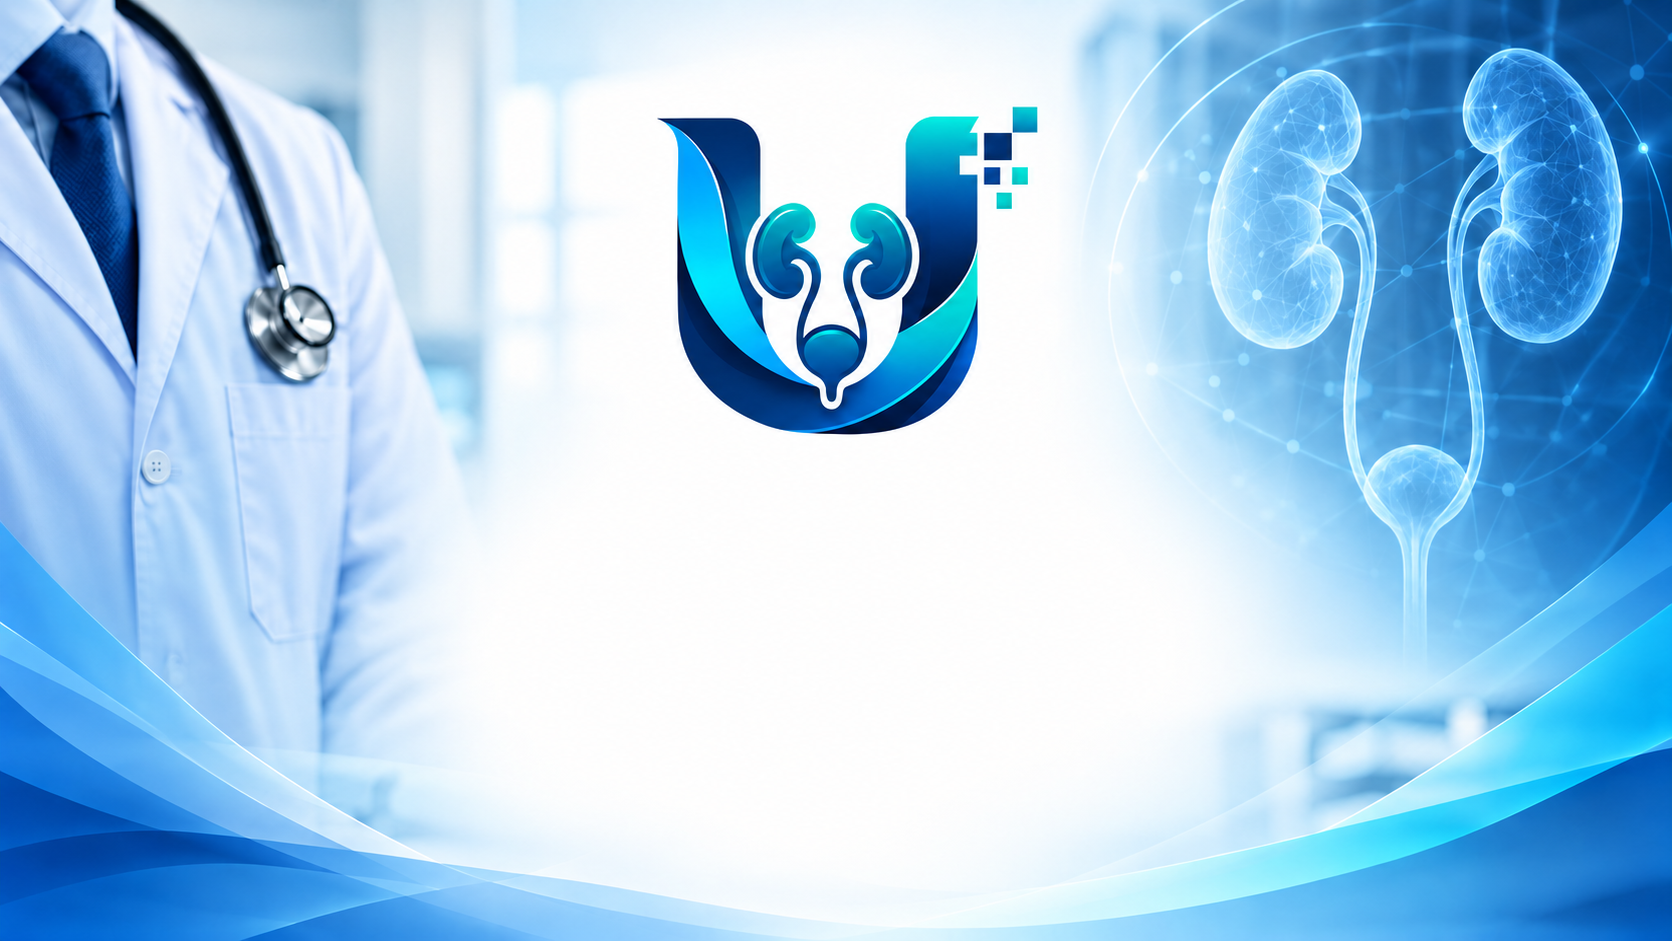
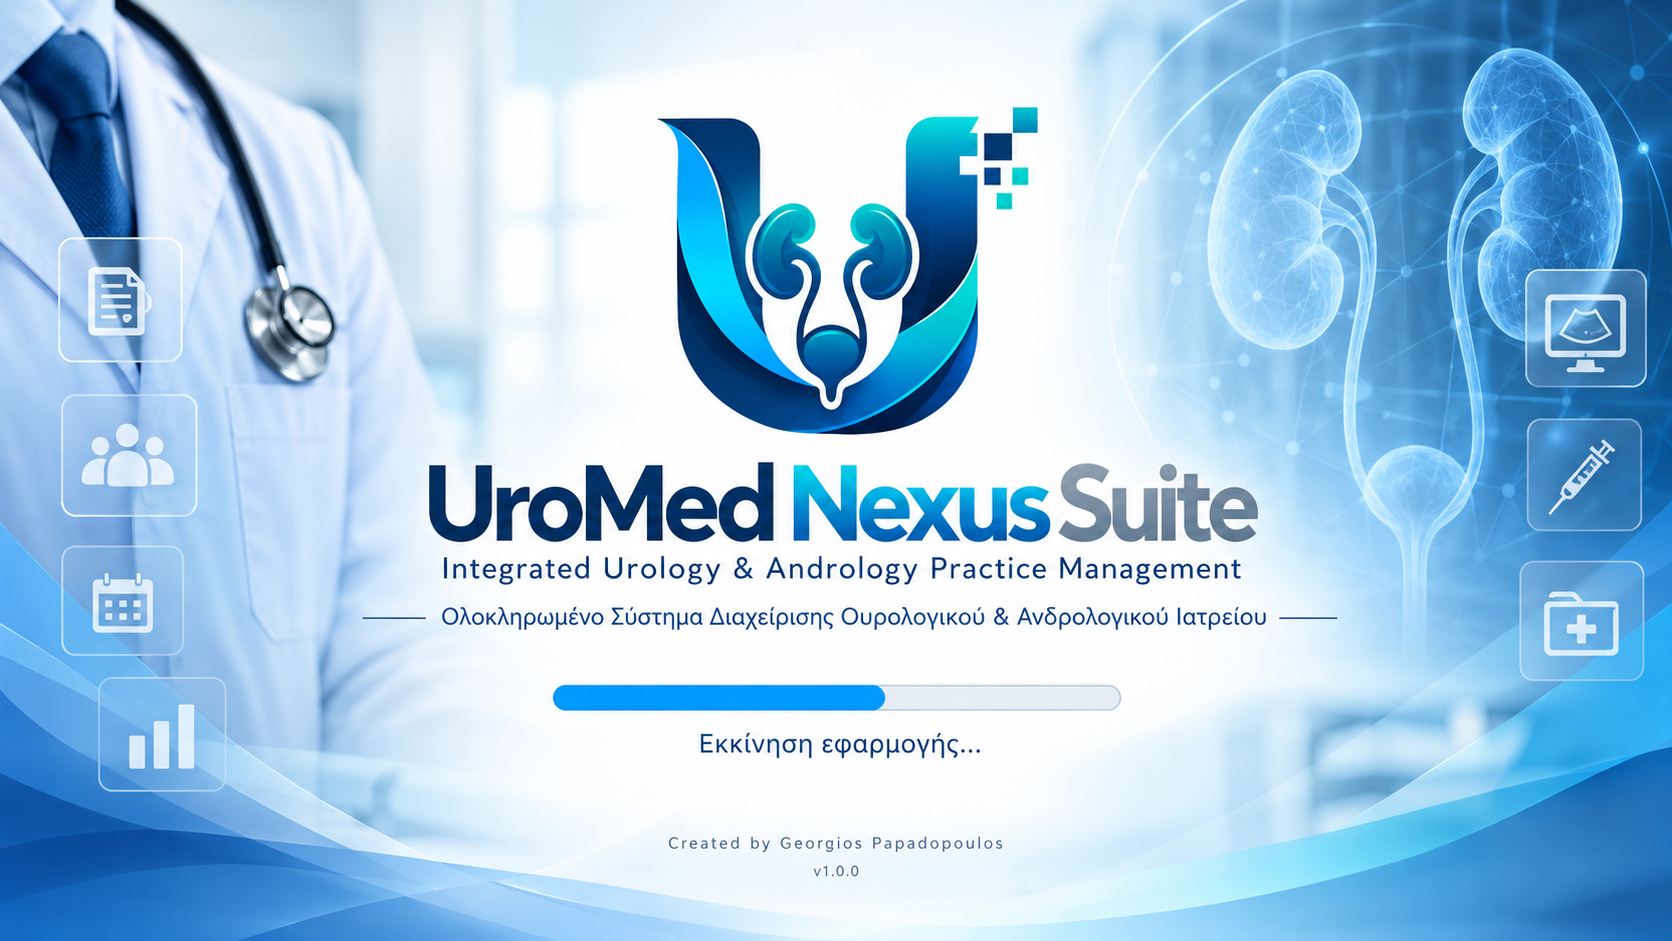
Use original supplied PNG unchanged on welcome screen

diff --git a/app.js b/app.js
@@ -46,7 +46,7 @@ function commit(next) {
 }
 function update(fn){const next=JSON.parse(JSON.stringify(state));fn(next);commit(next);}
 function optionsActions(){return `<details><summary>Περισσότερες ενέργειες</summary><div class="row">${button('BACKUP · Εξαγωγή','backup')}${button('Επαναφορά αντιγράφου','restore','','secondary')}</div><input type="file" id="backupFile" accept=".json,application/json" class="hidden"></details>`;}
-function welcome(){return `<main class="welcome hero" aria-label="Καλώς ήρθατε στο UroMed Nexus Suite"><div class="welcome-content"><h1 class="welcome-brand"><span>UroMed</span> <span>Nexus</span> <span>Suite</span></h1><p class="welcome-english" lang="en">Integrated Urology & Andrology Practice Management</p><p class="welcome-greek">Ολοκληρωμένο Σύστημα Διαχείρισης<br class="welcome-mobile-break"> Ουρολογικού & Ανδρολογικού Ιατρείου</p><div class="welcome-actions">${button('Συνέχεια στην είσοδο →','login','','welcome-enter')}${button('Παρουσίαση εφαρμογής','landing','','welcome-more')}</div><p class="welcome-demo">Δοκιμαστική έκδοση · μόνο φανταστικά δεδομένα</p></div><footer class="welcome-footer"><span lang="en">Created by Georgios Papadopoulos</span><br>${version}</footer></main>`;}
+function welcome(){return `<main class="welcome hero" aria-label="Υποδοχή UroMed Nexus Suite"><button type="button" class="welcome-image-button" data-action="login" aria-label="Συνέχεια στην είσοδο του UroMed Nexus Suite"><img src="welcome-bg.png?v=original-20261108" width="1672" height="941" fetchpriority="high" alt="UroMed Nexus Suite · Integrated Urology and Andrology Practice Management · Ολοκληρωμένο Σύστημα Διαχείρισης Ουρολογικού και Ανδρολογικού Ιατρείου. Αρχικό γραφικό υποδοχής με γιατρό, λογότυπο, νεφρούς και πλαϊνά εικονίδια."></button><div class="welcome-navigation">${button('Συνέχεια στην είσοδο →','login','','welcome-enter')}${button('Παρουσίαση','landing','','welcome-more')}</div><p class="welcome-version">${version} · Πατήστε την εικόνα ή το κουμπί για είσοδο.</p></main>`;}
 function landing(){return `<header class="row between">${brand()}<div class="row">${themeControl()}<span class="pill">${version}</span></div></header><main class="landing"><div class="hero"><div><div class="eyebrow">Clinical Testing Edition / 2026</div><h1>Το ιατρείο σας.<br>Σε μία <span>ενιαία ροή.</span></h1><p class="lead">Από το πρώτο ραντεβού μέχρι τον επανέλεγχο. Ένα σύγχρονο εκπαιδευτικό περιβάλλον για την οργάνωση ουρολογικού και ανδρολογικού ιατρείου.</p><div class="row">${button('Είσοδος στη δοκιμαστική έκδοση →','login')}${button('Γνωρίστε τη ροή','flow','','secondary')}</div><p class="muted">Χωρίς υποχρεωτική αναμονή. Με φανταστικά δεδομένα και τοπική αποθήκευση.</p></div><div class="hero-visual"><div class="row between"><strong>Η ημέρα σας, οργανωμένη</strong><span class="pill">DEMO</span></div><div class="line"><span class="dot"></span><div><small>01 / ΑΣΘΕΝΗΣ</small><p>Βρείτε την πληροφορία που χρειάζεστε.</p></div></div><div class="line"><span class="dot"></span><div><small>02 / ΕΠΙΣΚΕΨΗ</small><p>Καταγράψτε. Ελέγξτε. Αποθηκεύστε.</p></div></div><div class="line"><span class="dot"></span><div><small>03 / ΣΥΝΕΧΕΙΑ</small><p>Επανέλεγχος και αναφορά, στην ίδια ροή.</p></div></div></div></div><div id="flow" class="grid">${[['01','Ασθενείς & ιστορικό','Φανταστικοί φάκελοι με διακριτές επισκέψεις.'],['02','Δύο χώροι εργασίας','Ραντεβού, διάρκεια και έλεγχος επικαλύψεων.'],['03','SAVE · PRINT · BACKUP','Προσχέδια, προεπισκόπηση και εξαγωγή δεδομένων.']].map(([n,t,d])=>`<article class="card"><div class="step-number">${n}</div><h2>${t}</h2><p class="muted">${d}</p></article>`).join('')}</div>${notice()}<p class="muted">Η AI, η τηλεϊατρική και ο συγχρονισμός αποτελούν μελλοντικές ενότητες. Η έκδοση αυτή δεν προορίζεται για πραγματική ιατρική χρήση.</p></main>${footer()}`;}
 function login(){return `<header class="row between">${brand()}<div class="row">${themeControl()}${button('← Υποδοχή','welcome','','secondary')}</div></header><main class="auth-wrap"><div><div class="eyebrow">Ο προσωπικός σας χώρος</div><h1>Καλώς ήρθατε<br>στο Nexus Suite.</h1><p class="muted">Επιλέξτε μέθοδο εισόδου και τον δικό σας δοκιμαστικό λογαριασμό.</p>${notice()}<details><summary>Δοκιμαστικοί λογαριασμοί και Password</summary><div class="credentials">${ACCOUNTS.map(a=>`<p><b>${a.label}</b><br>User name: <code>${a.username}</code><br>Password: <code>${a.demoPassword}</code></p>`).join('')}<p>Μην χρησιμοποιείτε προσωπικό σας κωδικό. Το PIN ορίζεται μετά την πρώτη είσοδο, ξεχωριστά για κάθε λογαριασμό και browser.</p></div></details></div><section class="card auth-card"><h2>Σύνδεση χρήστη</h2><div class="tabs" aria-label="Μέθοδος εισόδου">${[['password','Password'],['pin','PIN'],['biometric','Δακτυλικό / Face ID']].map(([m,l])=>button(l,'method',m,method===m?'active':'')).join('')}</div><form id="loginForm">${field('User name · doctor / reception / ADMIN','username','','text','autocomplete="username" required maxlength="50"')}${method==='password'?`<label>Password<div class="password-wrap"><input id="loginSecret" type="password" autocomplete="current-password" required>${button('Εμφάνιση','reveal','','secondary')}</div></label>`:method==='pin'?field('Τοπικό δοκιμαστικό PIN · 6 ψηφία','loginSecret','','password','inputmode="numeric" pattern="[0-9]{6}" maxlength="6" autocomplete="off" required'):'<p class="muted">Χρησιμοποιεί τον μηχανισμό της συσκευής (δακτυλικό, Face ID ή Windows Hello). Απαιτείται προηγούμενη καταχώριση στις Ρυθμίσεις και συμβατότητα browser/συσκευής. Δεν είναι διαθέσιμο σε κάθε συσκευή.</p>'}<div id="formError" role="alert"></div><button type="submit" id="loginSubmit">${method==='biometric'?'Βιομετρική είσοδος':'Είσοδος'} →</button></form><p class="field-hint">Η τοπική δοκιμαστική είσοδος δεν αντικαθιστά πραγματικό σύστημα ταυτοποίησης. Δεν αποθηκεύονται εικόνες προσώπου ή δακτυλικών αποτυπωμάτων.</p></section></main>${footer()}`;}
 const titles={clinical:'Ιατρικός φάκελος · Ουρολογία–Ανδρολογία',examinations:'Εξετάσεις & έγγραφα',home:'Ο χώρος εργασίας σας',patients:'Εικονικοί ασθενείς',record:'Ιστορικό ασθενούς',visit:'Ιατρική επίσκεψη',calendar:'Ραντεβού & επανέλεγχοι',report:'Προεπισκόπηση αναφοράς',settings:'Ρυθμίσεις πρόσβασης',admin:'Administration',visitStart:'Επιλογή ασθενή για επίσκεψη',statistics:'Ιστορικό & Στατιστικά',feedback:'Παρατηρήσεις δοκιμής',program:'Εκτύπωση προγράμματος'};

diff --git a/styles.css b/styles.css
@@ -26,11 +26,11 @@
 
 .patient-fields label:nth-child(2){grid-column:1/-1}.clinical-alert p,.prewrap{white-space:pre-wrap;overflow-wrap:anywhere}.exam-entry{border-top:1px solid var(--line);padding:22px 0}.exam-entry li{margin:12px 0}.exam-entry li button{margin:4px}.exam-preview{max-width:100%;height:auto}.patient-fields label:last-child{max-width:210px}
 
-/* Welcome artwork is decorative; all text and controls remain accessible HTML. */
-.welcome.hero{position:relative;display:flex;flex-direction:column;align-items:center;gap:0;min-height:100vh;margin:0;padding:max(48vh,28vw) 24px 20px;max-width:none;background:#e2f4ff url("welcome-bg.png") center top/cover no-repeat;color:#07336a;text-align:center}
-.welcome-content{width:100%;max-width:1100px}.welcome.hero .welcome-brand{font-size:clamp(34px,5.3vw,88px);line-height:1.06;font-weight:800;letter-spacing:-3px;margin:0 0 10px;color:#05366d;text-shadow:0 2px 15px #fff}
-.welcome.hero .welcome-brand span:first-child{color:#04366d}.welcome.hero .welcome-brand span:nth-child(2){color:#00a9ce}.welcome.hero .welcome-brand span:nth-child(3){color:#758b9f}
-.welcome-english{font-size:clamp(14px,1.55vw,24px);letter-spacing:1px;margin:8px 0 12px;line-height:1.4;color:#07336a;text-shadow:0 1px 10px white}.welcome-greek{font-size:clamp(16px,1.5vw,23px);line-height:1.5;margin:12px 0 24px;color:#07336a;text-shadow:0 1px 10px white}
-.welcome-actions{display:flex;justify-content:center;gap:12px;flex-wrap:wrap}.welcome-actions .welcome-enter{background:linear-gradient(120deg,#00b8e0,#0069d9);color:white;border:1px solid #008fe0;box-shadow:0 6px 22px #0075b82b;padding:15px 26px;font-size:18px}.welcome-actions .welcome-more{background:#ffffffd9;color:#074078;border:1px solid #98bfdc;padding:15px 22px}
-.welcome-demo{font-size:13px;color:#244f78;margin:14px 0 10px}.welcome-footer{margin-top:auto;padding:20px 0 0;color:#214b77;font-size:12px;line-height:1.9;letter-spacing:1px}.welcome-mobile-break{display:none}.welcome button:focus-visible{outline:3px solid #053b74;outline-offset:4px}
-@media(max-width:600px){.welcome.hero{padding-left:18px;padding-right:18px}.welcome.hero .welcome-brand{letter-spacing:-1.5px}.welcome-greek{margin-bottom:18px}.welcome-mobile-break{display:initial}.welcome-actions{gap:10px}.welcome-actions button{width:100%;max-width:320px}.welcome-english{letter-spacing:0}.welcome-footer{font-size:11px}}
+/* Display the user's original PNG unchanged, without cropping or text overlays. */
+.welcome.hero{display:flex;flex-direction:column;align-items:center;gap:0;min-height:100vh;width:100%;max-width:none;margin:0;padding:0;background:#e4f5ff;color:#07336a;text-align:center}
+.welcome-image-button{display:flex;align-items:center;justify-content:center;width:100%;height:calc(100vh - 100px);min-height:200px;padding:0;border:0;border-radius:0;background:transparent;overflow:hidden;flex-shrink:0}
+.welcome-image-button img{display:block;width:100%;height:100%;object-fit:contain;object-position:center}
+.welcome-image-button:hover{filter:none;background:transparent}.welcome-image-button:focus-visible{outline:3px solid #0758a3;outline-offset:-4px}
+.welcome-navigation{display:flex;justify-content:center;gap:10px;flex-wrap:wrap;padding:10px 12px 4px}.welcome-navigation button{font-size:15px;padding:12px 16px;min-height:44px}.welcome-navigation .welcome-enter{background:linear-gradient(120deg,#00a9d8,#0069d9);color:#fff;border:1px solid #0087c4}.welcome-navigation .welcome-more{background:white;color:#074078;border:1px solid #98bfdc}
+.welcome-version{font-size:11px;line-height:1.5;color:#254c70;margin:4px 12px 8px}.welcome button:focus-visible{outline-color:#053b74}
+@media(max-width:400px){.welcome-navigation{gap:8px}.welcome-navigation button{font-size:14px;padding:11px 12px}.welcome-version{font-size:10px}}

diff --git a/index.html b/index.html
@@ -5,13 +5,13 @@
 <meta name="viewport" content="width=device-width, initial-scale=1">
 <meta name="theme-color" content="#0a1529">
 <title>UroMed Nexus Suite — v0.3 Hybrid Futuristic</title>
-<link rel="stylesheet" href="styles.css?v=20261108-welcome">
+<link rel="stylesheet" href="styles.css?v=20261108-original">
 </head>
 <body>
 <div id="app"></div>
 <div id="toast" role="status" aria-live="polite"></div>
 <dialog id="help"><h2>Βοήθεια</h2><div id="helpText"></div><button id="closeHelp">Κλείσιμο</button></dialog>
 <noscript>Η εκπαιδευτική εφαρμογή χρειάζεται ενεργή JavaScript.</noscript>
-<script type="module" src="app.js?v=20261108-welcome"></script>
+<script type="module" src="app.js?v=20261108-original"></script>
 </body>
 </html>

diff --git a/README.md b/README.md
@@ -19,4 +19,4 @@ Deploy with GitHub Pages: main branch, root folder. No build step. Public app fi
 
 ## Welcome screen
 
-The initial welcome page is a visual adaptation of the supplied medical brand reference, with real HTML text and navigation controls. The generated decorative artwork is welcome-bg.png. Continue to login directly or open the retained marketing page. No simulated loading progress or forced wait.
+The welcome page displays the original user-provided PNG (welcome-bg.png), unchanged, using object-fit: contain so all text and side icons remain visible. The loading bar and v1.0.0 label belong to the supplied artwork; the current application build is stated separately below. Clicking the image or Continue opens login. Continue to login directly or open the retained marketing page. No simulated loading progress or forced wait.
